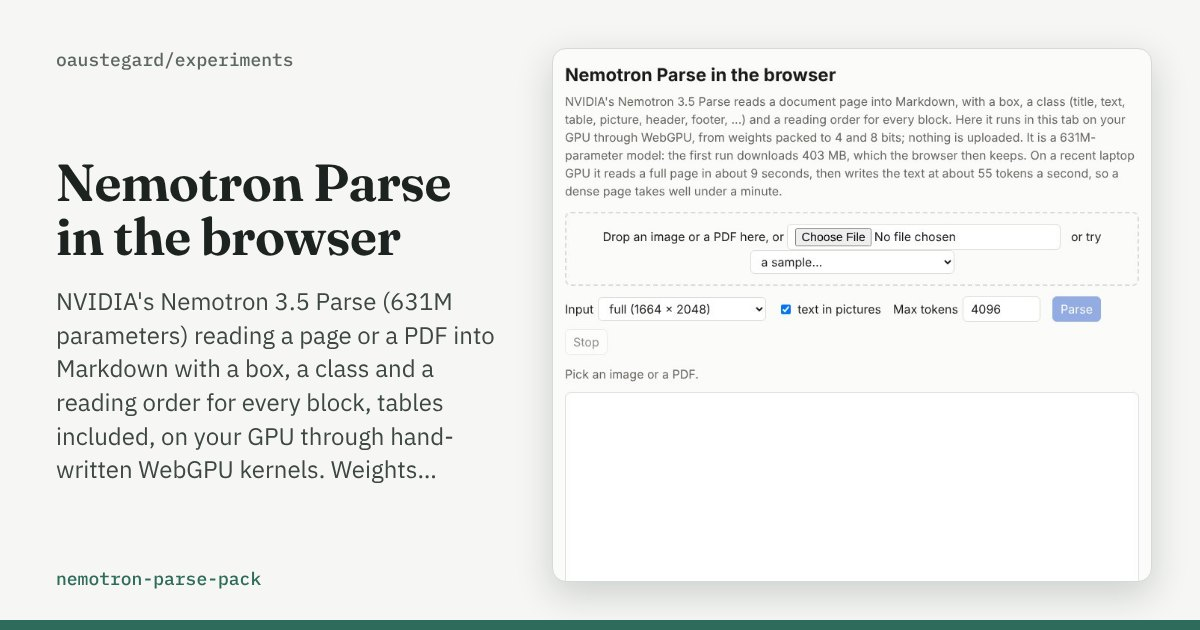
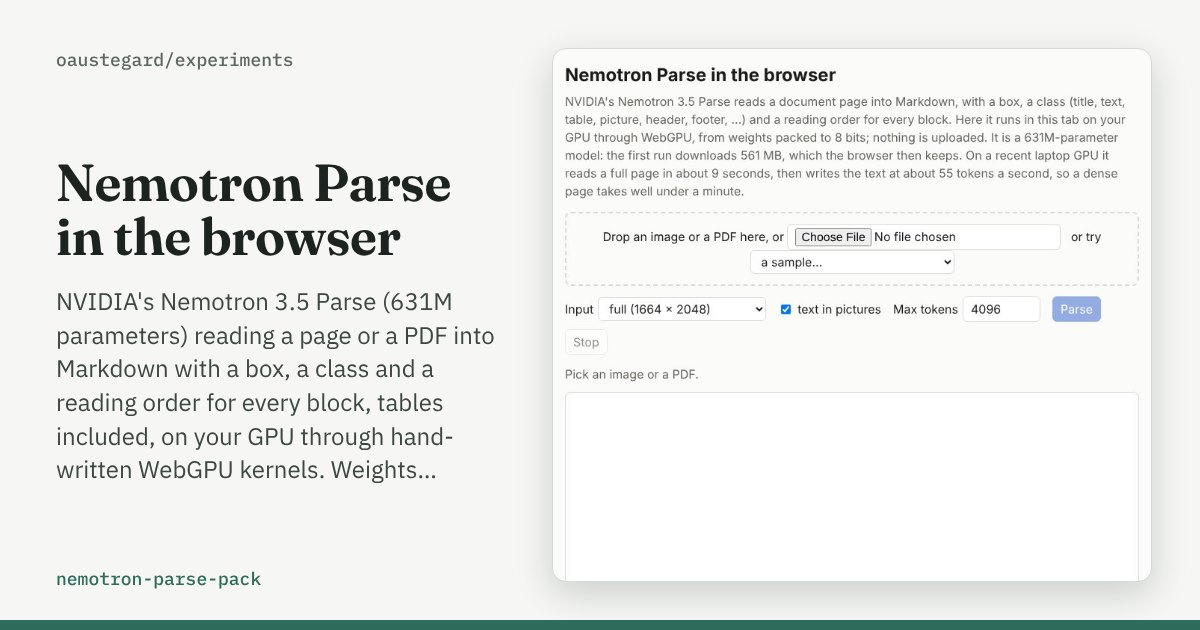
nemotron-parse-pack: test page loads the all-int8 3.5 pack (v35i8) by default
v35i8 scores 79.27 on OPB (250 pages) against 80.00 for fp32 and 72.14 for the 4-bit-encoder v35;
on the Mac it encodes a full page in 8.6 s and decodes at 57 tokens a second, the same as v35.
561 MB in place of 403. ?pack=v35 and ?pack=v1 still load the others. NOTICE, blurb, card updated.

Claude-Session: https://claude.ai/code/session_01P6FqarNNGJxJjnBvV3VbQh

Changed region(s): [[0.4625, 0.2111, 0.9558, 0.3317]]

diff --git a/nemotron-parse-pack/web/index.html b/nemotron-parse-pack/web/index.html
@@ -5,7 +5,7 @@
 <meta name="viewport" content="width=device-width, initial-scale=1">
 <title>Nemotron Parse in the browser</title>
 <link rel="icon" href="data:,">
-<meta name="description" content="NVIDIA Nemotron 3.5 Parse (631M parameters) reading a page or a PDF into Markdown with layout boxes, in this browser tab on WebGPU, from weights packed to 4 and 8 bits. Nothing is uploaded.">
+<meta name="description" content="NVIDIA Nemotron 3.5 Parse (631M parameters) reading a page or a PDF into Markdown with layout boxes, in this browser tab on WebGPU, from weights packed to 8 bits. Nothing is uploaded.">
 <style>
 :root { --bg: #fbfbfa; --fg: #1b1b19; --muted: #66655f; --line: #dcdbd5; --panel: #fff; --accent: #2f5fd0; --accent-fg: #fff; --err-bg: #fdeceb; --err-fg: #8a1f17; }
 @media (prefers-color-scheme: dark) { :root:not([data-theme="light"]) { --bg: #161615; --fg: #ecebe7; --muted: #a3a29a; --line: #3a3936; --panel: #1f1f1d; --accent: #7aa2ff; --accent-fg: #0d1a3a; --err-bg: #3d1a17; --err-fg: #ffb4ab; } }
@@ -50,7 +50,7 @@ progress { width: 100%; height: 8px; }
 <body>
 <main>
 <h1>Nemotron Parse in the browser</h1>
-<p class="lede">NVIDIA's Nemotron 3.5 Parse reads a document page into Markdown, with a box, a class (title, text, table, picture, header, footer, ...) and a reading order for every block. Here it runs in this tab on your GPU through WebGPU, from weights packed to 4 and 8 bits; nothing is uploaded. It is a 631M-parameter model: the first run downloads <span id="size">403 MB</span>, which the browser then keeps. On a recent laptop GPU it reads a full page in about 9 seconds, then writes the text at about 55 tokens a second, so a dense page takes well under a minute.</p>
+<p class="lede">NVIDIA's Nemotron 3.5 Parse reads a document page into Markdown, with a box, a class (title, text, table, picture, header, footer, ...) and a reading order for every block. Here it runs in this tab on your GPU through WebGPU, from weights packed to 8 bits; nothing is uploaded. It is a 631M-parameter model: the first run downloads <span id="size">561 MB</span>, which the browser then keeps. On a recent laptop GPU it reads a full page in about 9 seconds, then writes the text at about 55 tokens a second, so a dense page takes well under a minute.</p>
 
 <div id="drop">Drop an image or a PDF here, or <input id="file" type="file" accept="image/*,application/pdf,.pdf"> &nbsp; or try <select id="sample"><option value="">a sample…</option><option value="samples/paper.png">two-column paper with a table</option><option value="../../ppocr-pack/web/samples/letter.png">café notice</option><option value="../../ppocr-pack/web/samples/receipt.png">receipt</option></select></div>
 
@@ -87,7 +87,7 @@ progress { width: 100%; height: 8px; }
 </div>
 
 <footer class="muted small">
-<p>Model: <a href="https://huggingface.co/nvidia/Nemotron-3.5-Parse">NVIDIA Nemotron 3.5 Parse</a> by NVIDIA, under the <a href="https://openmdw.ai/license/1-1/">OpenMDW License 1.1</a>; its tokenizer under the MIT license (<a href="models/LICENSE35.txt">licence and attribution</a>). The older Nemotron Parse 2.0 pack loads with <code>?pack=v1</code>. The weights served here are modified: rounded to 4-bit and 8-bit integers with 16-bit scales (see <a href="https://github.com/oaustegard/experiments/blob/main/nemotron-parse-pack/NOTICE.md">NOTICE</a>). PDF pages are rendered with <a href="https://mozilla.github.io/pdf.js/">pdf.js</a>, filled-in form fields included. Method and results: <a href="https://github.com/oaustegard/experiments/tree/main/nemotron-parse-pack">nemotron-parse-pack on GitHub</a>. Build <code id="build"></code>.</p>
+<p>Model: <a href="https://huggingface.co/nvidia/Nemotron-3.5-Parse">NVIDIA Nemotron 3.5 Parse</a> by NVIDIA, under the <a href="https://openmdw.ai/license/1-1/">OpenMDW License 1.1</a>; its tokenizer under the MIT license (<a href="models/LICENSE35.txt">licence and attribution</a>). A smaller pack with a 4-bit image encoder (403 MB, about 8 points less accurate on Omni Parse Bench) loads with <code>?pack=v35</code>, and the older Nemotron Parse 2.0 with <code>?pack=v1</code>. The weights served here are modified: rounded to 8-bit integers with 16-bit scales (see <a href="https://github.com/oaustegard/experiments/blob/main/nemotron-parse-pack/NOTICE.md">NOTICE</a>). PDF pages are rendered with <a href="https://mozilla.github.io/pdf.js/">pdf.js</a>, filled-in form fields included. Method and results: <a href="https://github.com/oaustegard/experiments/tree/main/nemotron-parse-pack">nemotron-parse-pack on GitHub</a>. Build <code id="build"></code>.</p>
 </footer>
 </main>
 <script src="../../gpu-bridge/web/relay.js"></script>

diff --git a/nemotron-parse-pack/web/app.js b/nemotron-parse-pack/web/app.js
@@ -5,7 +5,7 @@ import { openPdf } from "./pdf-flatten.js";
 import { marked } from "https://esm.sh/marked@12.0.2";
 import DOMPurify from "https://esm.sh/dompurify@3.1.6";
 
-const BUILD = "2026-11-26-d";   /* keep equal to build.json */
+const BUILD = "2026-11-26-e";   /* keep equal to build.json */
 const relay = (window.Relay || { start() { return this; }, log() {}, warn() {}, error() {} }).start({ page: "nemotron-parse-pack", build: BUILD });
 fetch("build.json", { cache: "no-store" }).then(r => (r.ok ? r.json() : null)).then(b => {
   if (b && b.build && b.build !== BUILD && !sessionStorage.getItem("np-reloaded")) {
@@ -18,7 +18,7 @@ const $ = id => document.getElementById(id);
 const PHONE = /iPhone|iPad|iPod|Android/i.test(navigator.userAgent) || (navigator.maxTouchPoints > 1 && /Macintosh/.test(navigator.userAgent));
 const q = new URLSearchParams(location.search);
 const R2 = "https://pub-38421218e82c4d4ba2bc53974c28b55d.r2.dev/nemotron-parse-pack/";
-const PACK = q.get("pack") || "v35";
+const PACK = q.get("pack") || "v35i8";
 const BASE = q.get("base") || R2 + PACK + "/";
 $("build").textContent = BUILD + " · pack " + PACK;
 

diff --git a/nemotron-parse-pack/NOTICE.md b/nemotron-parse-pack/NOTICE.md
@@ -2,13 +2,16 @@
 
 ## Model weights
 
-The packed weights that the browser page in this experiment (`web/index.html`) downloads derive from NVIDIA Nemotron Parse 2.0
-(https://huggingface.co/nvidia/NVIDIA-Nemotron-Parse-2.0), Copyright (c) 2026 NVIDIA CORPORATION & AFFILIATES,
+The packed weights that the browser page in this experiment (`web/index.html`) downloads derive from NVIDIA Nemotron 3.5 Parse
+(https://huggingface.co/nvidia/Nemotron-3.5-Parse; packs v35i8 and v35, tokenizer under the MIT license, see
+`web/models/LICENSE35.txt`) and NVIDIA Nemotron Parse 2.0 (https://huggingface.co/nvidia/NVIDIA-Nemotron-Parse-2.0;
+pack v1), Copyright (c) 2026 NVIDIA CORPORATION & AFFILIATES,
 licensed under the OpenMDW License Agreement, version 1.1. A copy of that agreement, with NVIDIA's notices, is in
 `web/models/LICENSE.txt` and sits beside the weight files on the download server (Cloudflare R2).
 
-Changes made in this experiment: the image encoder's weight matrices are rounded to 4-bit integers in groups of 32 and
-the text decoder's to 8-bit integers per row, each with 16-bit scales (`run/export.py` writes them); norms and biases are stored at 16 bits. The files are split
+Changes made in this experiment: weight matrices are rounded to integers with 16-bit scales: 8-bit per row in the
+Nemotron 3.5 Parse pack the page loads by default (v35i8); in the v35 and v1 packs the image encoder's are 4-bit in
+groups of 32 (`run/export.py` writes them); norms and biases are stored at 16 bits. The files are split
 into gzip shards for download. No weights were retrained.
 
 The tokenizer (`tokenizer.json`) is NVIDIA's, licensed under CC-BY-4.0
